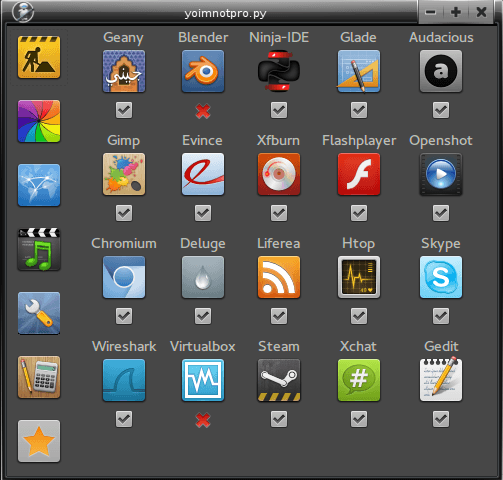
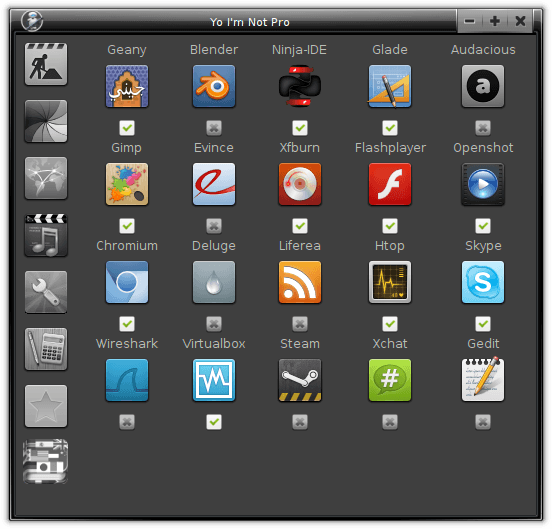
yoimnotpro translated

diff --git a/README.md b/README.md
@@ -5,6 +5,8 @@ Small application center separated on categories for archlinux/based distros. At
 The program checks whether those program exists and will display appropriate image - X not installed, Mark sign means installed. If the program is not installed by clicking X it will install it, if you click again it will remove it. There are tooltip text, just hover your mouse over the wanted application icon or it's install/remove button to see those texts in action.
 
 I was inspired by Zorin OS and GNOME 3 to create this program.
+
+April 21 2014: English and Bulgarian translations was added, thanks to Metodi Kirov for the Bulgarian translation.
 ## Archlinux support
 Archlinux users can install the program directly from AUR, without the need to download it from here.
 
